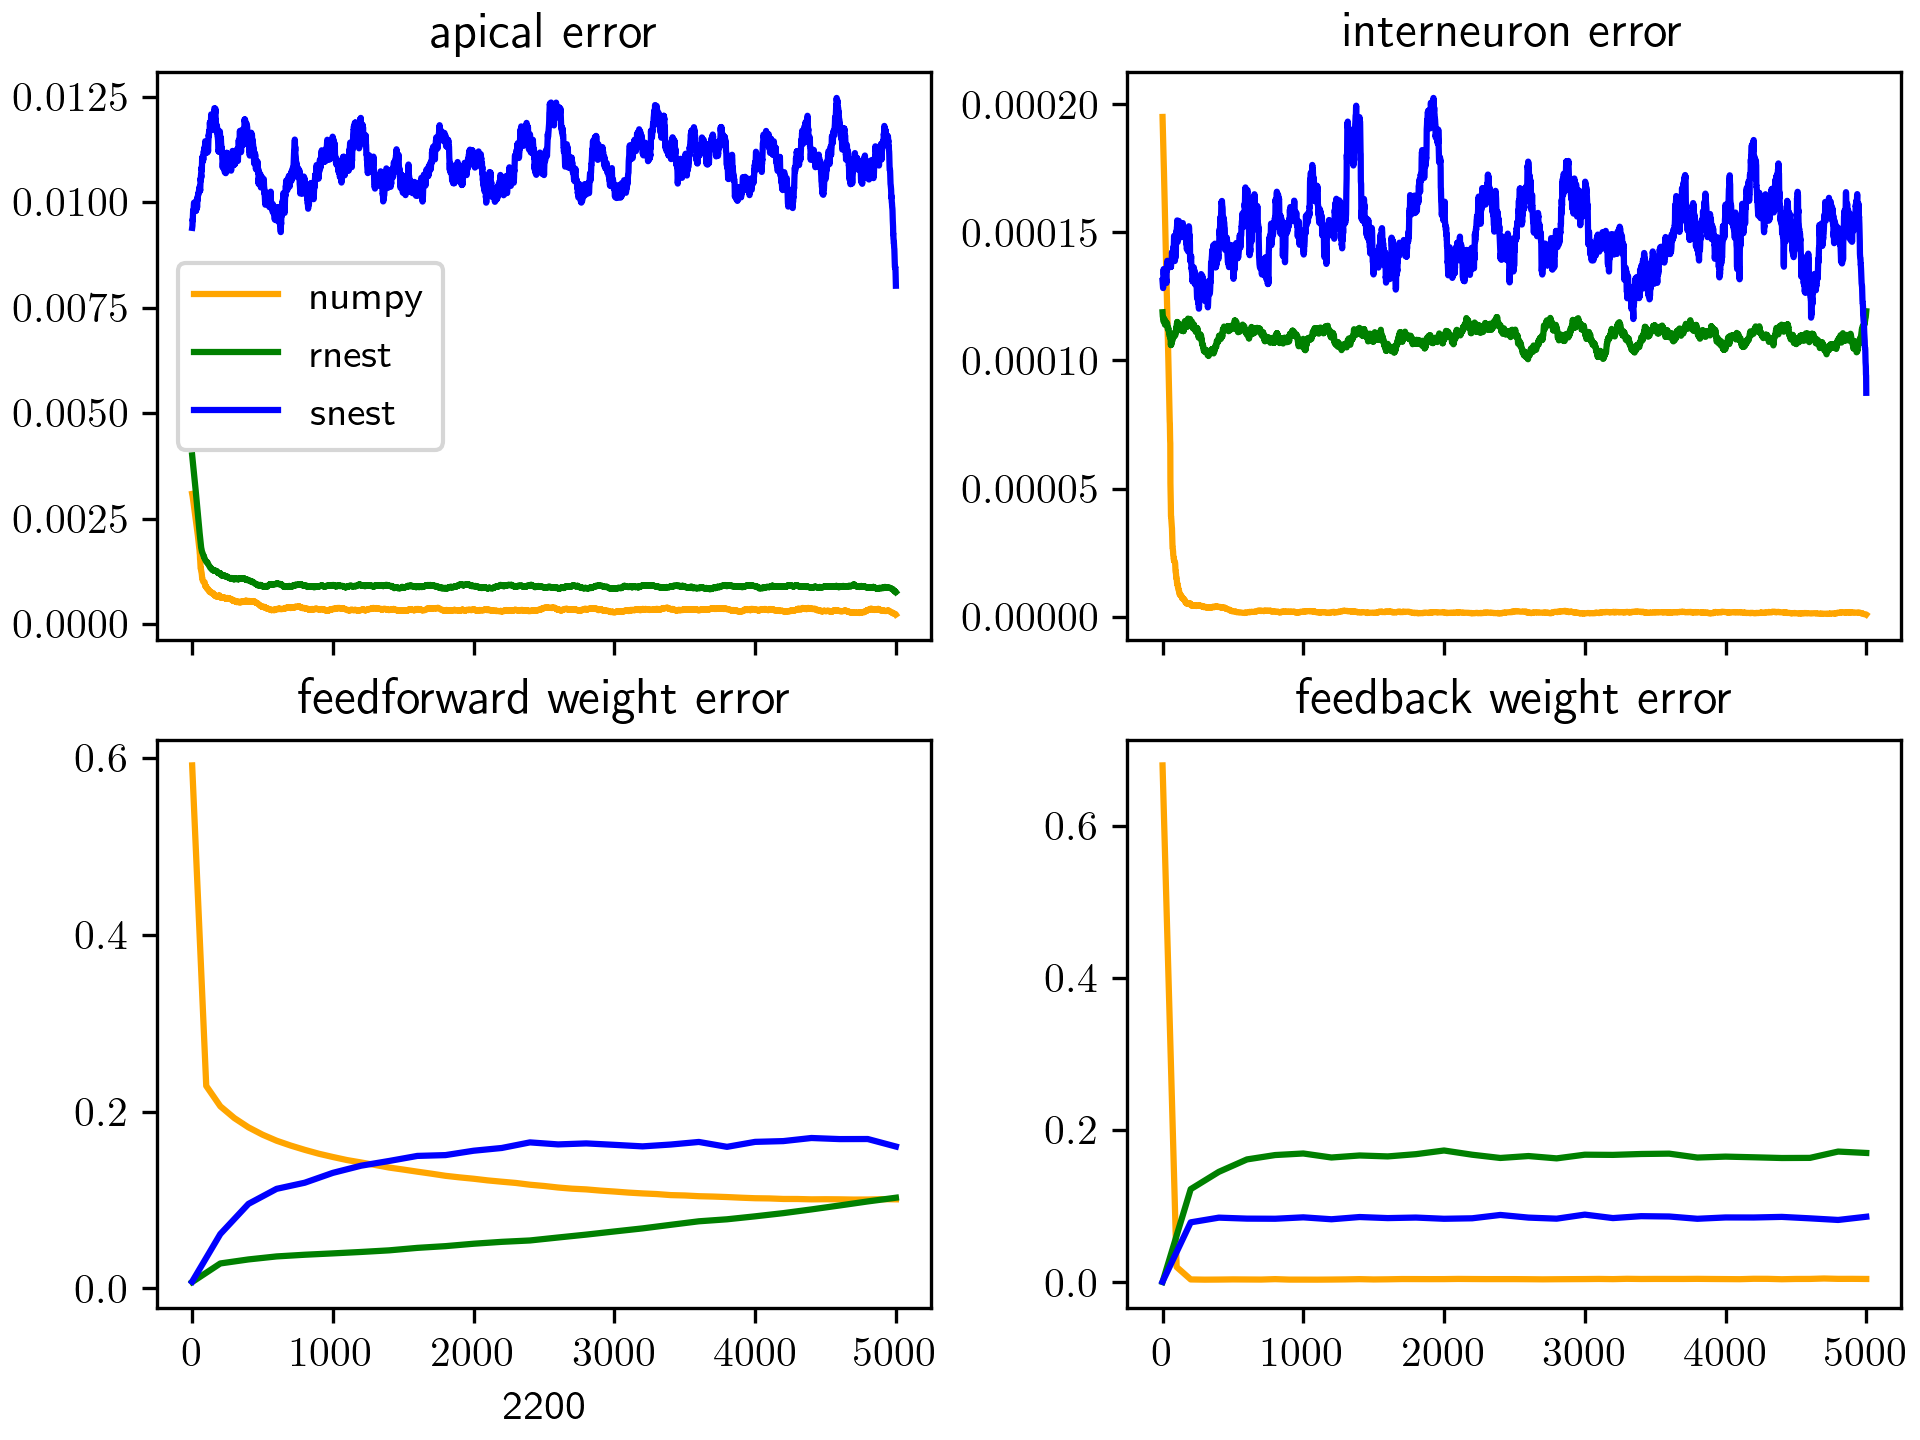
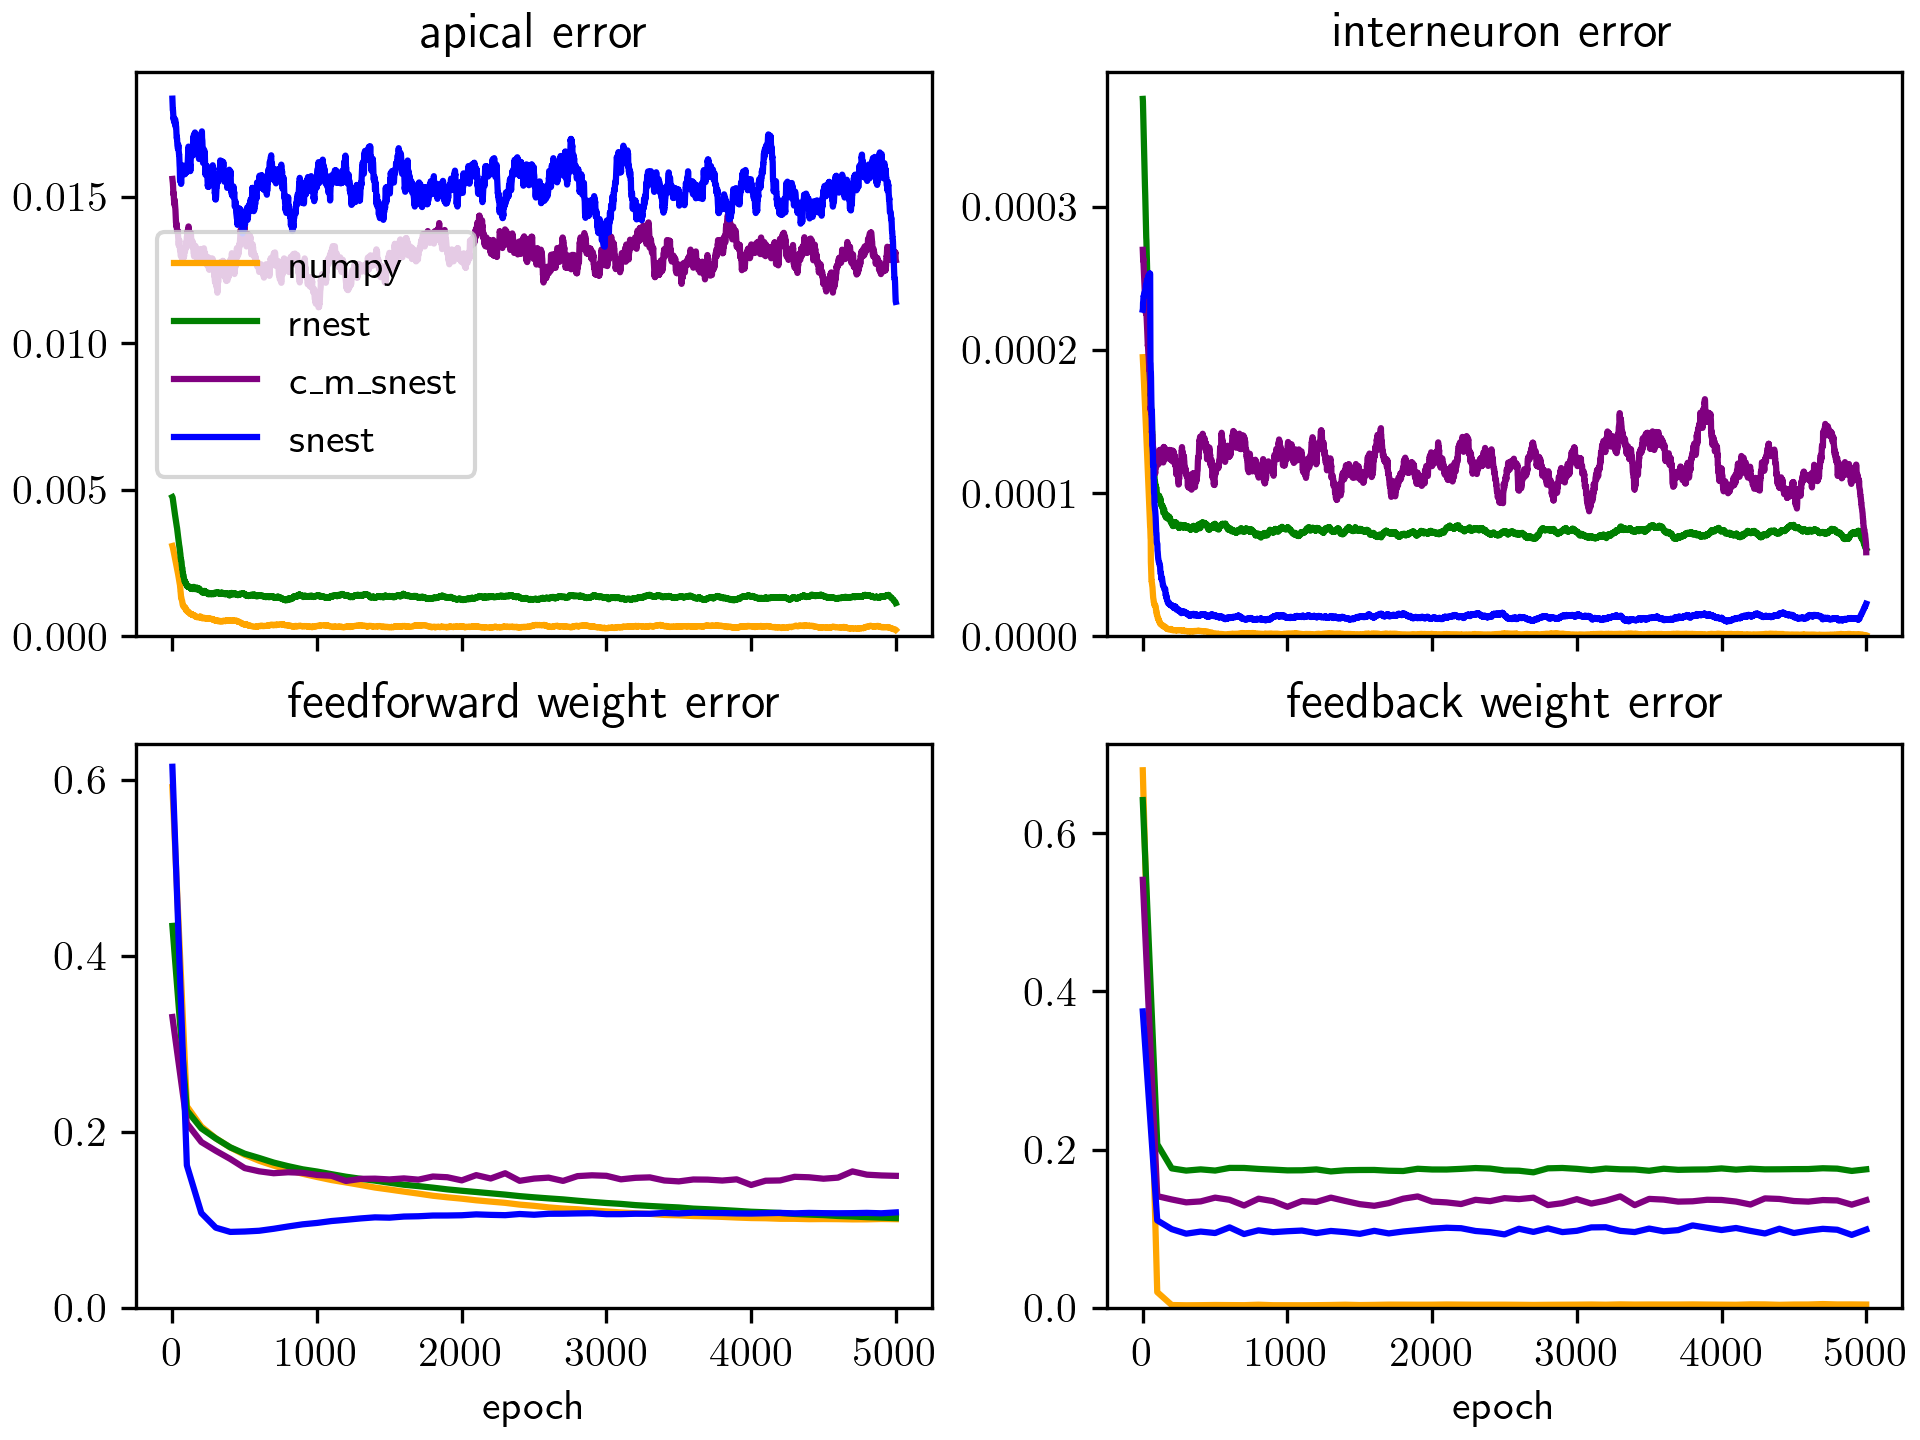
clean up plotting scripts

diff --git a/pyramidal_microcircuit/scripts/fig_4_n_hidden.py b/pyramidal_microcircuit/scripts/fig_4_n_hidden.py
@@ -1,6 +1,5 @@
 import json
 import os
-import re
 import sys
 
 import matplotlib.pyplot as plt
@@ -8,9 +7,9 @@ import numpy as np
 import src.plot_utils as plot_utils
 import src.utils as utils
 
-linestyles = {1: "solid",
-              100: "dashed",
-              1000: "dotted"}
+linestyles = {10: "solid",
+              30: "dashed",
+              100: "dotted"}
 
 filter_window = 4
 if __name__ == "__main__":
@@ -35,12 +34,12 @@ if __name__ == "__main__":
         with open(os.path.join(dirname, config, "params.json")) as f:
             params = json.load(f)
 
-        weight_scale = params["weight_scale"]
+        n_hidden = params["dims"][1]
         acc = np.array(progress["test_acc"])
 
         final_acc = np.mean(acc[-5:, 1])  # average over last 10 accuracy readings
 
-        final_performance.append([weight_scale, final_acc])
+        final_performance.append([n_hidden, final_acc])
 
         if not np.any(acc[:, 1] == 1.0):
             t_success = 10000
@@ -48,31 +47,24 @@ if __name__ == "__main__":
             t_success = np.where(acc[:, 1] < 1.0)[0]
             t_success = acc[t_success[-1], 0]
 
-        training_duration.append([weight_scale, t_success])
+        training_duration.append([n_hidden, t_success])
 
-        if weight_scale in [1, 100, 1000]:
+        if n_hidden in [10, 30, 100]:
             times = [entry[0] for entry in acc]
             acc = [1-entry[1] for entry in acc]
-            ax0.plot(times, utils.rolling_avg(acc, filter_window), label=r"weight scale={}".format(
-                weight_scale), color="orange", linestyle=linestyles[weight_scale])
+            ax0.plot(times, utils.rolling_avg(acc, filter_window), label=r"$n_{{hidden}}={}$".format(
+                n_hidden), color="orange", linestyle=linestyles[n_hidden])
 
-    ax1.set_xscale("log")
-    ax2.set_xscale("log")
     ax1.plot(*zip(*sorted(final_performance)))
-
     ax2.plot(*zip(*sorted(training_duration)))
-
-    ax0.set_ylim(0, 1)
-    ax1.set_ylim(0, 1.03)
-    ax2.set_ylim(0, 1000)
+    ax2.set_ylim(-5, 1000)
+    ax0.set_ylabel("test loss")
+    ax1.set_ylabel("final accuracy")
+    ax2.set_ylabel("training duration (epochs)")
     ax0.set_xlabel("epoch")
-    ax1.set_xlabel(r'weight scale')
-    ax2.set_xlabel(r'weight scale')
-    ax0.set_ylabel("test error")
-    ax1.set_ylabel("final test error")
-    ax2.set_ylabel("training duration [epochs]")
+    ax1.set_xlabel("n hidden")
+    ax2.set_xlabel("n hidden")
     ax0.legend()
-
     # plt.show()
 
     plt.savefig(out_file)

diff --git a/pyramidal_microcircuit/scripts/fig_7_self_prediction.py b/pyramidal_microcircuit/scripts/fig_7_self_prediction.py
@@ -9,6 +9,13 @@ import src.plot_utils as plot_utils
 import src.utils as utils
 from sklearn.metrics import mean_squared_error as mse
 
+colors = {
+    "numpy": "orange",
+    "rnest": "green",
+    "snest": "blue",
+    "c_m_snest": "purple"
+}
+
 
 filter_window = 4
 if __name__ == "__main__":
@@ -28,8 +35,9 @@ if __name__ == "__main__":
 
     for config in all_configs:
 
-        network_type = config.split("_")[-2]
-        col = plot_utils.colors[network_type]
+        network_type = config.split("_")[-1]
+        network_type = config[16:]
+        col = colors[network_type]
 
         with open(os.path.join(dirname, config, "progress.json")) as f:
             progress = json.load(f)
@@ -60,8 +68,6 @@ if __name__ == "__main__":
         ax2.plot(*zip(*sorted(ff_error)), color=col, label=network_type)
         ax3.plot(*zip(*sorted(fb_error)), color=col, label=network_type)
 
-
-    
     ax2.set_xlabel("epoch")
     ax3.set_xlabel("epoch")
     ax0.set_title("apical error")

diff --git a/pyramidal_microcircuit/scripts/perform_tests.py b/pyramidal_microcircuit/scripts/perform_tests.py
@@ -26,14 +26,14 @@ net = NestNetwork(params)
 
 for d in os.listdir(datadir):
     print(f"processing {d}")
-    if not "weights" in d:
+    if "weights" not in d:
         continue
 
     idx = int(d.split("_")[1].split(".")[0])
 
     net.epoch = idx
 
-    with open (os.path.join(datadir, d)) as f:
+    with open(os.path.join(datadir, d)) as f:
         wgts = json.load(f)
     net.set_all_weights(wgts)
 
@@ -42,15 +42,10 @@ for d in os.listdir(datadir):
     print(f"idx: {idx}, acc: {net.test_acc[-1][1]}, loss: {net.test_loss[-1][1]}")
 
 with open(os.path.join(root, "test_progress.json"), "w") as f:
-    
+
     result = {
         "test_acc": sorted(net.test_acc),
         "test_loss": sorted(net.test_loss),
     }
 
-    
     json.dump(result, f, indent=4)
-
-
-
-
